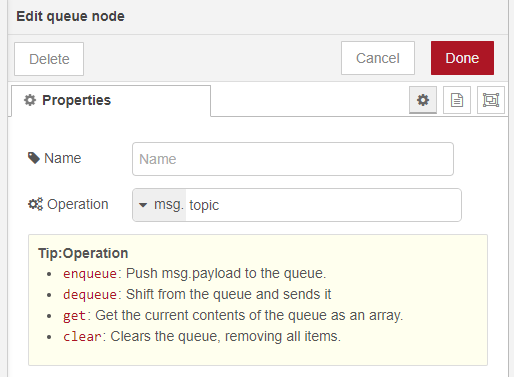
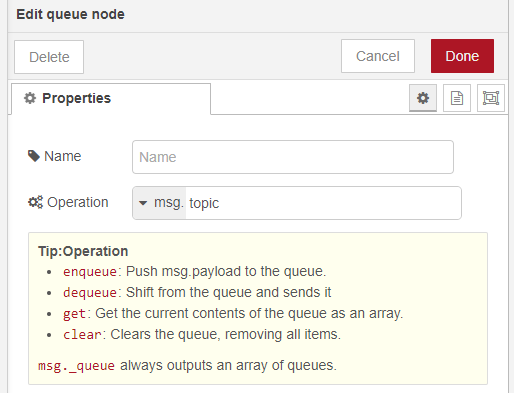
Update Documents

diff --git a/node/queue.html b/node/queue.html
@@ -45,6 +45,7 @@
             <li><code>get</code>: Get the current contents of the queue as an array.</li>
             <li><code>clear</code>: Clears the queue, removing all items.</li>
         </ul>
+        <code>msg._queue</code> always outputs an array of queues.
     </div>
 </script>
 

diff --git a/README.md b/README.md
@@ -10,3 +10,10 @@ Sample flow is in the examples folder.
 You can change the function by specifying Operation.
 
 ![edit.png](./images/edit.png)
+
+In msg.queue, always output an array of queues.   
+The values can be easily displayed by passing them to the ui-table node.  
+
+![ui-table-flow.png](./images/ui-table-flow.png)
+
+![ui-table.png](./images/ui-table.png)
